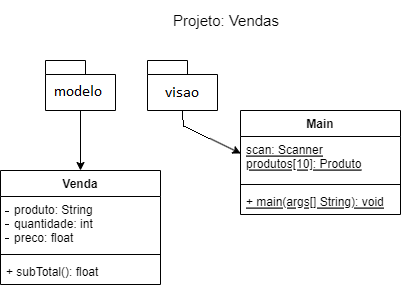
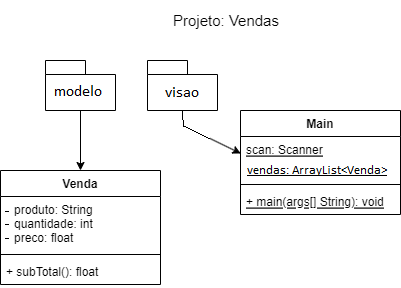
1des fpoo aula15

Changed region(s): [[0.5985, 0.5312, 0.9576, 0.625]]

diff --git a/1des/fpoo/aula16/Vendas/src/visao/Main.java b/1des/fpoo/aula16/Vendas/src/visao/Main.java
@@ -1,0 +1,86 @@
+package visao;
+
+import java.util.ArrayList;
+import java.util.Scanner;
+
+import modelo.Venda;
+
+public class Main {
+
+	static Scanner scan = new Scanner(System.in);
+	static ArrayList<Venda> vendas = new ArrayList<>();
+	static int menu = 0;
+
+	public static void main(String[] args) {
+		while (menu != 5) {
+			System.out.println("\n1.Cadastrar vendas");
+			System.out.println("2.Consultar vendas");
+			System.out.println("3.Alterar venda");
+			System.out.println("4.Excluir venda");
+			System.out.println("5.Terminar programa");
+			menu = scan.nextInt();
+			switch (menu) {
+			case 1:
+				System.out.println("Produto\tQuantidade\tPreço:");
+				create();
+				break;
+			case 2:
+				System.out.println("Produto\tQuantidade\tPreço\tSubTotal:");
+				read();
+				break;
+			case 3:
+				System.out.print("Digite qual item quer alterar:");
+				update(scan.nextInt());
+				break;
+			case 4:
+				System.out.print("Digite qual item quer excluir:");
+				delete(scan.nextInt());
+				break;
+			case 5:
+				System.out.println("Obrigado por utilizar nosso sistema. Tchaw.");
+				break;
+			default:
+				System.out.println("Opção inválida.");
+				break;
+			}
+		}
+	}
+	
+	public static void create() {
+		Venda v = new Venda();
+		v.setProduto(scan.next());
+		v.setQuantidade(scan.nextInt());
+		v.setPreco(scan.nextFloat());
+		vendas.add(v);
+	}
+	
+	public static void read() {
+		float total = 0;
+		for(Venda v: vendas) {
+			System.out.println(v.toString());
+			total += v.subTotal();
+		}
+		System.out.printf("Total = %.2f\n",total);
+	}
+	
+	public static void update(int indice) {
+		if(indice >= 0 && indice < vendas.size()) {
+			System.out.println(vendas.get(indice).toString());
+			Venda v = new Venda();
+			v.setProduto(scan.next());
+			v.setQuantidade(scan.nextInt());
+			v.setPreco(scan.nextFloat());
+			vendas.set(indice,v);
+			System.out.println("Venda alterada.");
+		}else
+			System.out.println("Ítem inválido.");
+	}
+
+	public static void delete(int indice) {
+		if(indice >= 0 && indice < vendas.size()) {
+			vendas.remove(indice);
+			System.out.println("Venda excluída.");
+		}else
+			System.out.println("Ítem inválido.");
+	}                      
+}

diff --git a/1des/fpoo/aula16/Vendas/src/modelo/Venda.java b/1des/fpoo/aula16/Vendas/src/modelo/Venda.java
@@ -1,0 +1,45 @@
+package modelo;
+
+public class Venda {
+
+	// Atributos encapsuldos
+	private String produto;
+	private int quantidade;
+	private float preco;
+
+	// Método comum
+	public float subTotal() {
+		return quantidade * preco;
+	}
+
+	// Métodos de acesso Getters && Setters
+	public String getProduto() {
+		return produto;
+	}
+
+	public void setProduto(String produto) {
+		this.produto = produto;
+	}
+
+	public int getQuantidade() {
+		return quantidade;
+	}
+
+	public void setQuantidade(int quantidade) {
+		this.quantidade = quantidade;
+	}
+
+	public float getPreco() {
+		return preco;
+	}
+
+	public void setPreco(float preco) {
+		this.preco = preco;
+	}
+
+	@Override
+	public String toString() {
+		return String.format("%s\t%d\t%.2f\t%.2f", produto, quantidade, preco, subTotal());
+	}
+
+}
